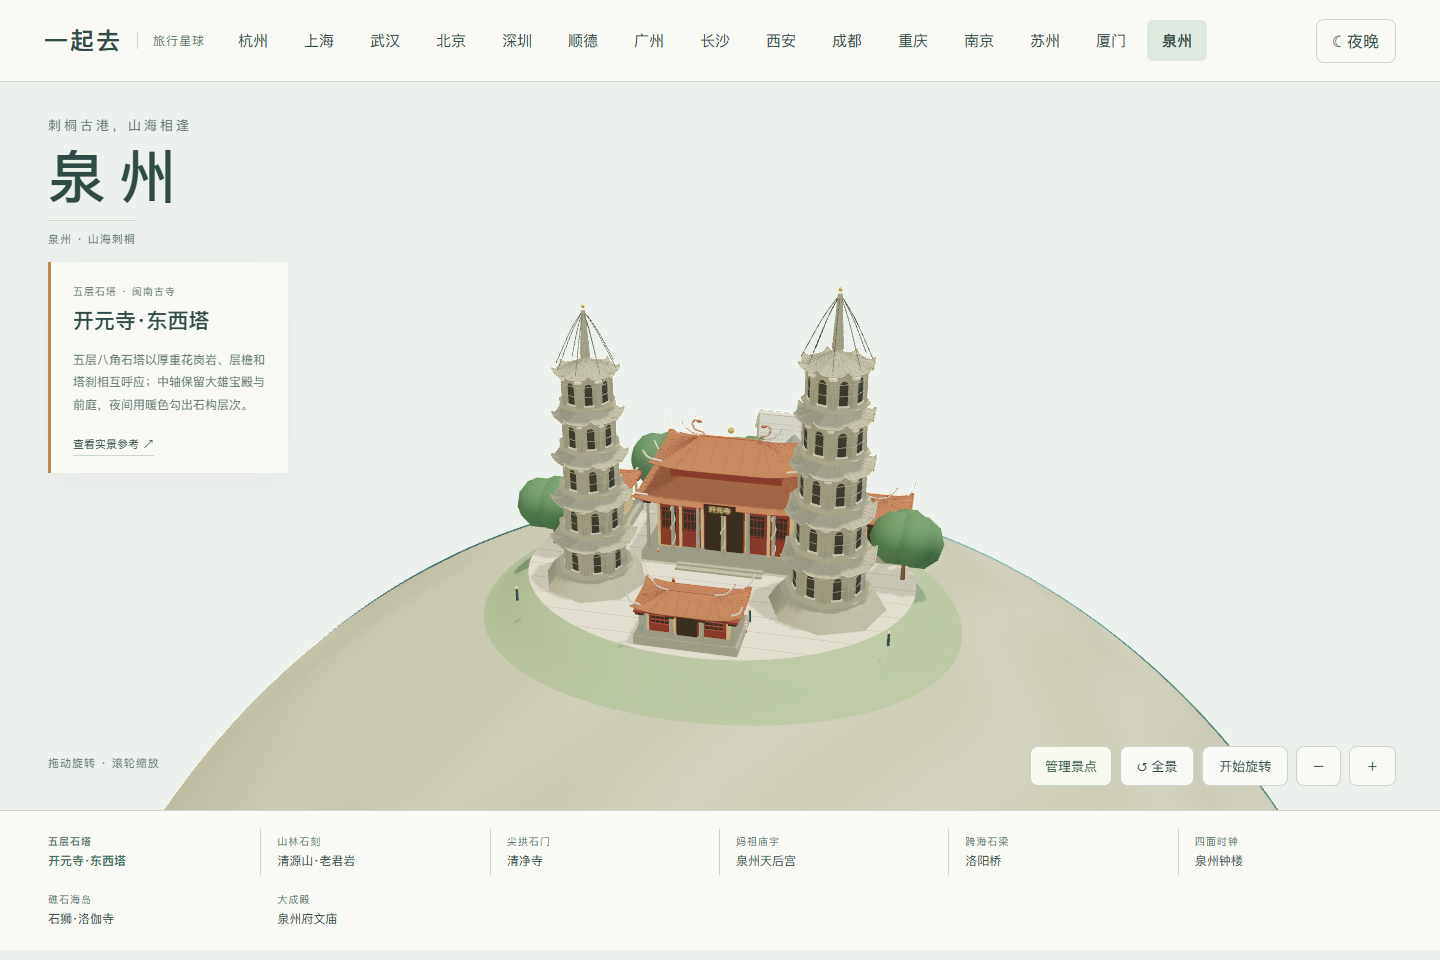
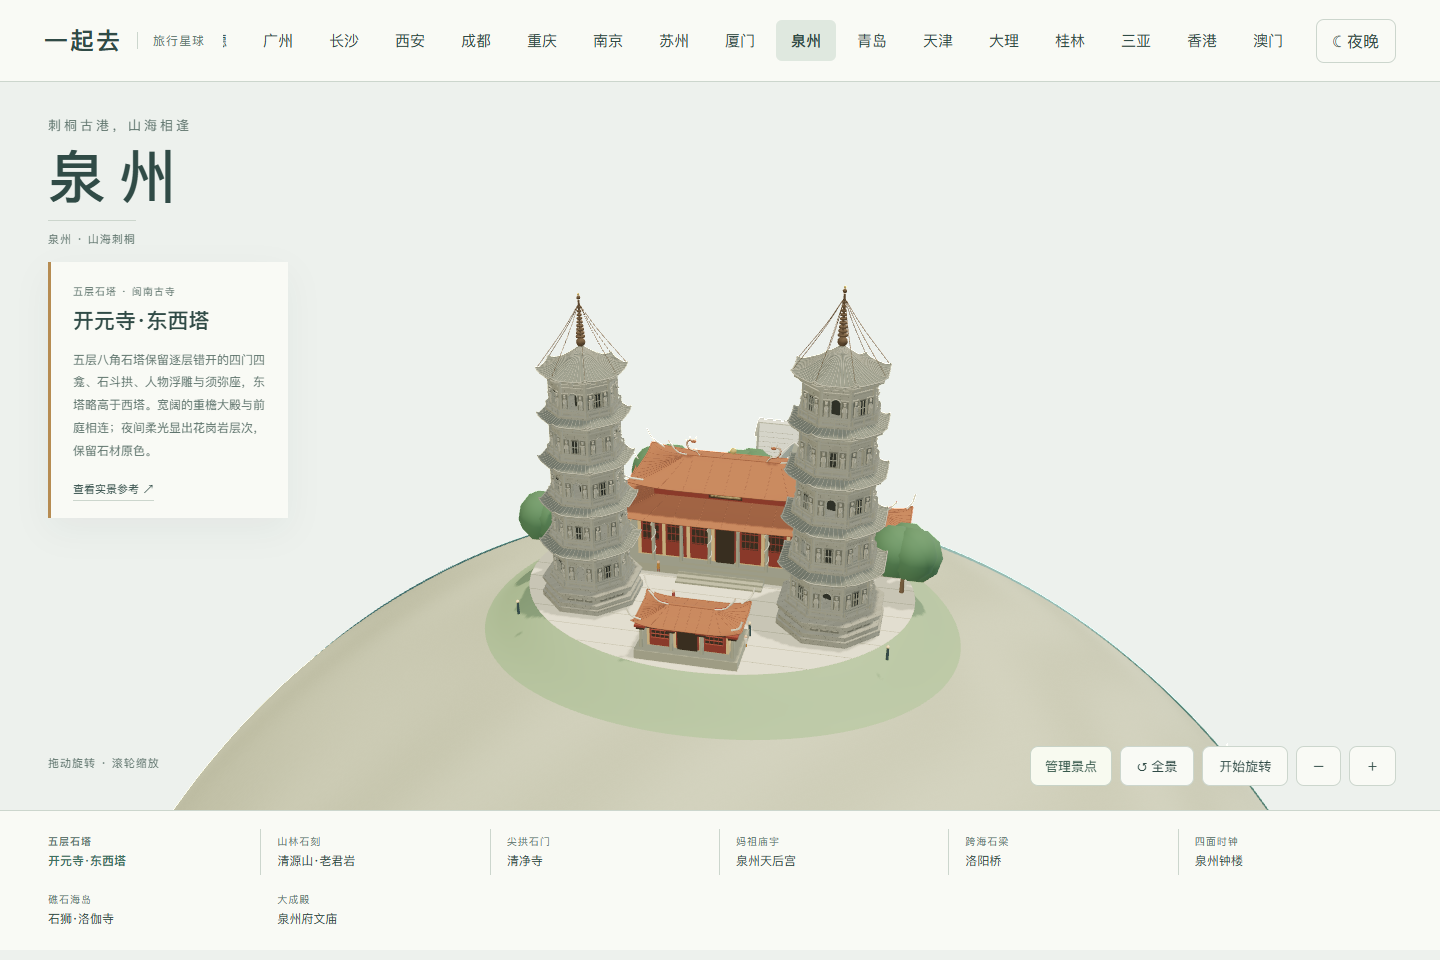
Refine Kaiyuan stone pagodas with alternating portals and carved detail

diff --git a/web/quanzhou-kaiyuan.js b/web/quanzhou-kaiyuan.js
@@ -1,0 +1,53 @@
+import * as THREE from 'three';
+import {palette,site,paving,steps,grove,sign,finish,hall,lit,TAU,skin,lantern,dragon,hip,sea,railing} from './quanzhou-kit.js';
+import {bridge} from './shunde-kit.js';
+function graniteMaterial(k){const m=k.mat('#929185',.98,.01);m.userData.night={color:new THREE.Color('#c7c4ad'),intensity:.018};m.userData.kaiyuanStone=true;m.onBeforeCompile=s=>{s.vertexShader='varying vec3 kaiyuanStone;\n'+s.vertexShader.replace('#include <begin_vertex>','#include <begin_vertex>\nkaiyuanStone=position;');s.fragmentShader='varying vec3 kaiyuanStone;\n'+s.fragmentShader.replace('#include <color_fragment>',`#include <color_fragment>
+ float row=floor(kaiyuanStone.y*135.0);vec2 grid=vec2((kaiyuanStone.x+kaiyuanStone.z)*85.0+mod(row,2.0)*.5,kaiyuanStone.y*135.0);
+ vec2 f=fract(grid);float joint=step(.026,f.x)*step(.035,f.y);
+ float tone=fract(sin(dot(floor(grid),vec2(12.989,78.233)))*43758.5453);diffuseColor.rgb*=mix(.78,.94+tone*.10,joint);`);};m.customProgramCacheKey=()=> 'kaiyuan-stone-block-v1';return m;}
+function relief(k,g,p,x,y,z,seed){
+ const panel=k.box(g,.017,.041,.002,p.recess,x,y+.021,z),robe=k.mesh(g,new THREE.LatheGeometry([new THREE.Vector2(.006,0),new THREE.Vector2(.005,.010),new THREE.Vector2(.0055,.020),new THREE.Vector2(.0035,.026)],10),p.carving,x,y+.003,z+.002);robe.scale.z=.52;
+ const head=k.ball(g,.0033,p.carving,x,y+.034,z+.003);head.scale.z=.65;k.cyl(g,.0034,.003,.003,p.carving,x,y+.038,z+.003,8);
+ const pose=seed%3;for(const side of [-1,1]){k.beam(g,[x+side*.004,y+.025,z+.003],[x+side*(pose===0?.001:.005),y+(pose===1?.030:.017),z+.007],.0018,p.carving,7);for(let j=0;j<3;j++)k.beam(g,[x+side*j*.0015,y+.017,z+.006],[x+side*(j+.2)*.0017,y+.003,z+.006],.0005,p.trim);}
+ for(const xx of [-.009,.009])k.box(g,.0012,.045,.003,p.trim,x+xx,y+.022,z+.001);for(const yy of [0,.044])k.box(g,.019,.0012,.003,p.trim,x,y+yy,z+.001);
+}
+function bracket(k,g,p,x,y,z){for(let i=0;i<3;i++){const reach=.005+i*.004;k.box(g,.008+i*.005,.004,.009+i*.006,p.trim,x,y+i*.004,z+reach);k.box(g,.005,.005,.010,p.stone,x,y-.003+i*.004,z+reach);}k.box(g,.024,.003,.023,p.stone,x,y+.013,z+.011);}
+function stonePagoda(k,g,p,x,z,scale=1,east=false){
+ const child=new THREE.Group();child.name=east?'kaiyuan-east':'kaiyuan-west';g.add(child);child.position.set(x,.034,z);child.scale.setScalar(scale);
+ const q={stone:graniteMaterial(k),trim:k.mat('#99988b',.96),roof:k.mat('#787c73',.98),recess:k.mat('#74746a',.99),carving:k.mat('#a4a193',.98),dark:k.mat('#3e413b',.99),metal:k.mat('#695743',.78,.2)};
+ for(const [r,y,h]of [[.146,.008,.016],[.140,.022,.012],[.125,.037,.018],[.141,.051,.010],[.145,.058,.006]]){const o=k.cyl(child,r,r,h,q.stone,0,y,0,8);o.rotation.y=Math.PI/8;}
+ // A moulded plinth and miniature relief panels support the five real storeys.
+ for(let i=0;i<8;i++){const a=i*TAU/8,f=new THREE.Group();f.rotation.y=a;f.position.set(Math.sin(a)*.118,.028,Math.cos(a)*.118);child.add(f);for(const xx of [-.026,0,.026]){k.box(f,.021,.014,.002,q.recess,xx,.011,0);const o=k.ball(f,.006,q.carving,xx,.012,.001);o.scale.set(1.2,.65,.3);}}
+ for(let level=0;level<5;level++){
+  const y=.064+level*.129,r=.105-level*.004,apothem=r*Math.cos(Math.PI/8),width=2*r*Math.sin(Math.PI/8),height=.103;
+  const core=k.cyl(child,.026,.026,.115,q.dark,0,y+.052,0,8);core.userData.hiddenCore=true;
+  for(let i=0;i<8;i++){const a=i*TAU/8,f=new THREE.Group();f.rotation.y=a;f.position.set(Math.sin(a)*apothem,y,Math.cos(a)*apothem);child.add(f);const opening=(i+level)%2===0;
+   if(opening){const shape=new THREE.Shape();shape.moveTo(-width/2,0);shape.lineTo(width/2,0);shape.lineTo(width/2,height);shape.lineTo(-width/2,height);shape.closePath();const hole=new THREE.Path();hole.moveTo(-.011,.009);hole.lineTo(-.011,.056);hole.absarc(0,.056,.011,Math.PI,0,true);hole.lineTo(.011,.009);hole.closePath();shape.holes.push(hole);k.mesh(f,new THREE.ExtrudeGeometry(shape,{depth:.008,bevelEnabled:false,curveSegments:16}),q.stone,0,0,-.008);
+    k.line(f,[[-.013,.009,.002],[-.013,.056,.002],[-.010,.065,.002],[0,.070,.002],[.010,.065,.002],[.013,.056,.002],[.013,.009,.002]],.0014,q.trim);
+   }else{k.box(f,width,height,.009,q.stone,0,height/2,-.0045);k.box(f,.022,.041,.002,q.recess,0,.045,.001);k.box(f,.017,.035,.003,q.dark,0,.045,.002);for(const xx of [-.008,0,.008])k.box(f,.001,.035,.005,q.trim,xx,.045,.004);k.box(f,.018,.001,.005,q.trim,0,.045,.004);}
+   for(const side of [-1,1]){relief(k,f,q,side*width*.32,.024,.003,i+level+side);k.box(f,.005,.094,.009,q.trim,side*width*.49,.047,.001);}
+   for(const yy of [.012,.020,.084,.092])k.box(f,width,.002,.005,q.trim,0,yy,.001);
+   const points=east||level<2?[-width/2,-width/6,width/6,width/2]:[-width/2,0,width/2];for(const xx of points)bracket(k,f,q,xx,.097,.001);
+   // Low stone rails sit outside the tower wall; portals remain distinguishable.
+   const railZ=.012;for(const yy of [.006,.020])k.box(f,width+.007,.0025,.004,q.trim,0,yy,railZ);for(const xx of [-width/2,0,width/2])k.box(f,.003,.023,.004,q.trim,xx,.012,railZ);
+  }
+  const shelf=k.cyl(child,r*1.17,r*1.17,.006,q.stone,0,y+.003,0,8);shelf.rotation.y=Math.PI/8;
+  const outer=r*1.38,high=level===4?.062:.030,inner=level===4?.004:r*.74;
+  const point=(u,v)=>{const a=u*TAU,sector=TAU/8,local=((a+sector/2)%sector)-sector/2,edge=outer*Math.cos(sector/2)/Math.cos(local),rad=inner+(edge-inner)*v;return [Math.sin(a)*rad,y+.112+high*(1-v)**1.45+.009*v**7*(Math.abs(local)/(sector/2))**5,Math.cos(a)*rad];};
+  skin(k,child,point,12,96,q.roof);k.line(child,Array.from({length:128},(_,i)=>point(i/128,1)),.0018,q.trim,true);
+  for(let i=0;i<64;i++)k.line(child,Array.from({length:10},(_,j)=>{const q=point(i/64,.04+.96*j/9);q[1]+=.001;return q;}),.00085,q.trim);
+ }
+ const top=.064+4*.129+.174;k.cyl(child,.0025,.003,.126,q.metal,0,top+.063,0,16);k.ball(child,.012,q.metal,0,top+.010,0);for(let j=0;j<9;j++)k.cyl(child,.012-j*.0009,.012-j*.0009,.004,q.metal,0,top+.026+j*.010,0,16);k.ball(child,.005,q.metal,0,top+.133,0);k.ball(child,.003,p.gold,0,top+.142,0);
+ for(let i=0;i<8;i++){const a=(i+.5)/8*TAU;k.line(child,[[0,top+.117,0],[Math.sin(a)*.042,top+.050,Math.cos(a)*.042],[Math.sin(a)*.118,top-.052,Math.cos(a)*.118]],.00065,q.metal);}
+ return child;
+}
+export function kaiyuan(k){
+ const g=new THREE.Group(),p=palette(k),h=site(k,g,.66,.55);paving(k,g,p,.53,.42);g.userData.stonePagodas={stories:[5,5],sides:8};
+ stonePagoda(k,g,p,-.32,.13,.92);stonePagoda(k,g,p,.32,.13,.985,true);p.tile=k.mat('#9e6549',.91);
+ hall(k,g,p,{w:.56,d:.27,h:.14,z:-.17,double:true,ornate:true});hall(k,g,p,{w:.23,d:.12,h:.07,z:.32});
+ for(const x of [-.40,.40])hall(k,g,p,{x,z:-.22,w:.16,d:.15,h:.095});
+ steps(k,g,p,0,.02,.24,5,.030,.08);sign(k,g,'界法蓮桑',.093,.022,0,.254,-.069,{background:'#47382b',color:'#dbc18b'});
+ grove(k,g,h,[[-.49,-.05,.16],[.49,-.06,.16],[-.25,-.39,.18],[.23,-.39,.17],[0,-.41,.17]]);
+ finish(k,g,{lamps:[[-.13,.023,.24],[.13,.023,.24],[-.48,.023,.27],[.48,.023,.27]],visitors:[[-.10,.023,.12],[.05,.023,.16],[.13,.023,.29],[-.18,.023,-.02]]});
+ for(const x of [-.32,.32]){const l=new THREE.SpotLight('#e1d6b9',0,1.1,.58,.8,2);l.position.set(x,.48,.48);l.target.position.set(x,.48,.13);l.userData.nightIntensity=.07;g.add(l,l.target);}return g;
+}

diff --git a/web/quanzhou-temples.js b/web/quanzhou-temples.js
@@ -1,35 +1,7 @@
 import * as THREE from 'three';
 import {palette,site,paving,steps,grove,sign,finish,hall,lit,TAU,skin,lantern,dragon,hip,sea,railing} from './quanzhou-kit.js';
 import {bridge} from './shunde-kit.js';
-function stonePagoda(k,g,p,x,z,scale=1){
- const child=new THREE.Group();g.add(child);child.position.set(x,.035,z);child.scale.setScalar(scale);
- for(let i=0;i<3;i++)k.cyl(child,.14-i*.008,.15-i*.008,.014,p.stone,0,.007+i*.014,0,8);
- const wall=lit(k,'#9e9983',.16),shade=k.mat('#4b4b40',.96),trim=lit(k,'#aaa58c',.35);
- for(let level=0;level<5;level++){
-  const y=.043+level*.125,r=.092-level*.006;k.cyl(child,r,r*.99,.098,wall,0,y+.049,0,8);
-  for(let face=0;face<8;face++){const a=(face+.5)/8*TAU,c=new THREE.Group();c.rotation.y=a;c.position.set(Math.sin(a)*r*.926,y,Math.cos(a)*r*.926);child.add(c);
-   k.box(c,.020,.050,.003,shade,0,.044,0);k.mesh(c,new THREE.CircleGeometry(.010,16,0,Math.PI),shade,0,.069,.002);k.box(c,.028,.004,.006,p.pale,0,.017,.001);
-   for(const side of [-1,1]){k.cyl(c,.003,.003,.078,p.stone,side*.030,.047,0,8);k.box(c,.012,.006,.009,p.pale,side*.030,.086,.002);}
-   for(let j=0;j<3;j++)k.box(c,.065,.001,.001,p.stone,0,.015+j*.028,.003);
-  }
-  k.cyl(child,r*1.20,r*1.20,.007,trim,0,y+.008,0,8);
-  const eave=r*1.34,high=.038;
-  const point=(u,v)=>{const a=u*TAU,sector=TAU/8,local=((a+sector/2)%sector)-sector/2,rr=eave*Math.cos(sector/2)/Math.cos(local),t=.001+.999*v;return [Math.sin(a)*rr*t,y+.097+high*(1-t)**1.4+.013*t**8*(Math.abs(local)/(sector/2))**5,Math.cos(a)*rr*t];};
-  skin(k,child,point,10,96,p.stone);k.line(child,Array.from({length:96},(_,i)=>point(i/96,1)),.002,trim,true);
-  for(let i=0;i<32;i++)k.line(child,Array.from({length:8},(_,j)=>{const q=point(i/32,.08+.92*j/7);q[1]+=.001;return q;}),.0009,p.stone);
- }
- const top=.043+4*.125+.135;k.cyl(child,.006,.014,.13,p.stone,0,top+.065,0,12);for(let j=0;j<8;j++)k.cyl(child,.014-j*.0011,.014-j*.0011,.004,p.stone,0,top+.012+j*.014,0,16);k.ball(child,.005,p.gold,0,top+.140,0);
- for(let i=0;i<8;i++){const a=i/8*TAU;k.line(child,[[0,top+.13,0],[Math.sin(a)*.035,top+.075,Math.cos(a)*.035],[Math.sin(a)*.084,top-.025,Math.cos(a)*.084]],.0007,shade);}
-}
-export function kaiyuan(k){
- const g=new THREE.Group(),p=palette(k),h=site(k,g,.66,.55);paving(k,g,p,.53,.42);g.userData.stonePagodas={stories:[5,5],sides:8};
- stonePagoda(k,g,p,-.31,.13,.92);stonePagoda(k,g,p,.31,.13,1.02);p.tile=k.mat('#9e6549',.91);
- hall(k,g,p,{w:.42,d:.23,h:.16,z:-.14,double:true,ornate:true});hall(k,g,p,{w:.23,d:.12,h:.07,z:.32});
- for(const x of [-.40,.40])hall(k,g,p,{x,z:-.22,w:.16,d:.15,h:.095});
- steps(k,g,p,0,.02,.24,5,.030,.08);sign(k,g,'开元寺',.088,.031,0,.205,.005,{background:'#47382b',color:'#dbc18b'});
- grove(k,g,h,[[-.49,-.05,.16],[.49,-.06,.16],[-.25,-.39,.18],[.23,-.39,.17],[0,-.41,.17]]);
- return finish(k,g,{lamps:[[-.13,.023,.24],[.13,.023,.24],[-.48,.023,.27],[.48,.023,.27]],visitors:[[-.10,.023,.12],[.05,.023,.16],[.13,.023,.29],[-.18,.023,-.02]]});
-}
+export {kaiyuan} from './quanzhou-kaiyuan.js';
 export function tianhou(k){
  const g=new THREE.Group(),p=palette(k),h=site(k,g,.62,.55);paving(k,g,p,.49,.43);p.tile=k.mat('#79755c',.91);
  hall(k,g,p,{z:.23,w:.55,d:.18,h:.17,ornate:true});hall(k,g,p,{z:-.18,w:.45,d:.25,h:.18,double:true,ornate:true});

diff --git a/web/quanzhou-landmarks.js b/web/quanzhou-landmarks.js
@@ -2,7 +2,7 @@ import {kaiyuan,tianhou,wenmiao,luojia} from './quanzhou-temples.js';
 import {qingjing,clock,luoyang} from './quanzhou-civic.js';
 import {laojun} from './quanzhou-sculpture.js';
 export const LANDMARKS=[
- {"id": "kaiyuan", "name": "开元寺·东西塔", "area": "五层石塔 · 闽南古寺", "x": -1.08, "z": 0.94, "height": 0.85, "distance": 3.0, "view": [0.4, 0.83, 1.8], "description": "五层八角石塔以厚重花岗岩、层檐和塔刹相互呼应；中轴保留大雄宝殿与前庭，夜间用暖色勾出石构层次。", "source": "https://k.sina.com.cn/article_1249458720_4a793a200200176l1.html", "grounded": true},
+ {"id": "kaiyuan", "name": "开元寺·东西塔", "area": "五层石塔 · 闽南古寺", "x": -1.08, "z": 0.94, "height": 0.94, "distance": 3.0, "view": [0.4, 0.83, 1.8], "description": "五层八角石塔保留逐层错开的四门四龛、石斗拱、人物浮雕与须弥座，东塔略高于西塔。宽阔的重檐大殿与前庭相连；夜间柔光显出花岗岩层次，保留石材原色。", "source": "https://www.quanzhou.gov.cn/zfb/xxgk/ztxxgk/ggwhty/whssml/202305/t20230516_2880608.htm", "grounded": true},
  {"id": "laojun", "name": "清源山·老君岩", "area": "山林石刻 · 席地坐像", "x": 1.08, "z": 0.94, "height": 0.65, "distance": 2.8, "view": [0.2, 0.62, 1.8], "description": "按实拍保留长髯、垂耳、依膝与凭几的席地坐姿，石像后方以山石和林冠围合。它是自然山麓石刻，不凭空补一座大殿遮住。", "source": "https://www.quanzhou.gov.cn/lyb/lswh/zdww/201609/t20160913_372298.htm", "grounded": true},
  {"id": "qingjing", "name": "清净寺", "area": "尖拱石门 · 海丝遗存", "x": -1.08, "z": -0.94, "height": 0.54, "distance": 2.75, "view": [0.35, 0.74, 1.8], "description": "灰白石砌门楼、层层尖拱与开敞的旧礼拜殿遗存，和后方较小的中式明善堂区分。门洞保持真实贯通，石墙保留砌缝。", "source": "https://www.media.sdu.edu.cn/info/1002/33093.htm", "grounded": true},
  {"id": "tianhou", "name": "泉州天后宫", "area": "妈祖庙宇 · 剪瓷雕脊", "x": 1.08, "z": -0.94, "height": 0.55, "distance": 2.9, "view": [0.3, 0.92, 1.8], "description": "山门、前庭、两侧院廊与后方正殿沿轴线排列。入口龙柱、红灯笼、灰绿瓦和屋脊双龙形成闽南识别点，暖光从柱廊与门内透出。", "source": "https://you.ctrip.com/sight/quanzhou243/8877.html", "grounded": true},

diff --git a/README.md b/README.md
@@ -1,6 +1,6 @@
 # 一起去 · Travel Planet
 
-用可旋转的 3D 城市星球发现景点，再和朋友一起决定怎么旅行。当前版本 **0.55.7**，支持桌面和手机网页。
+用可旋转的 3D 城市星球发现景点，再和朋友一起决定怎么旅行。当前版本 **0.55.8**，支持桌面和手机网页。
 
 **[上海旅行 · 在线体验](https://43.139.249.151/travel/shanghai-trip.html)** · **[杭州旅行](https://43.139.249.151/travel/)** · **[武汉旅行](https://43.139.249.151/travel/wuhan-trip.html)** · **[武汉纯地图](https://43.139.249.151/travel/wuhan.html)** · **[上海纯地图](https://43.139.249.151/travel/shanghai.html)** · **[北京地图](https://43.139.249.151/travel/beijing.html)** · **[深圳地图](https://43.139.249.151/travel/shenzhen.html)** · **[顺德地图](https://43.139.249.151/travel/shunde.html)** · **[广州地图](https://43.139.249.151/travel/guangzhou.html)** · **[长沙地图](https://43.139.249.151/travel/changsha.html)** · **[西安地图](https://43.139.249.151/travel/xian.html)** · **[成都地图](https://43.139.249.151/travel/chengdu.html)** · **[重庆地图](https://43.139.249.151/travel/chongqing.html)** · **[南京地图](https://43.139.249.151/travel/nanjing.html)** · **[苏州地图](https://43.139.249.151/travel/suzhou.html)** · **[厦门地图](https://43.139.249.151/travel/xiamen.html)** · **[泉州地图](https://43.139.249.151/travel/quanzhou.html)** · **[青岛地图](https://43.139.249.151/travel/qingdao.html)** · **[天津地图](https://43.139.249.151/travel/tianjin.html)** · **[大理地图](https://43.139.249.151/travel/dali.html)** · **[桂林地图](https://43.139.249.151/travel/guilin.html)** · **[三亚地图](https://43.139.249.151/travel/sanya.html)** · **[香港地图](https://43.139.249.151/travel/hongkong.html)** · **[澳门地图](https://43.139.249.151/travel/macau.html)**
 

diff --git a/docs/QUANZHOU_REFERENCES.md b/docs/QUANZHOU_REFERENCES.md
@@ -14,3 +14,16 @@
 | 泉州府文庙 | [大成殿实拍](https://touch.travel.qunar.com/comment/10163546063)、[闽南网泮池照片](https://www.mnw.cn/quanzhou/licheng/3057699.html) | 重檐大成殿、石柱、红木门窗、院廊、泮池与小桥。官方原图连接超时后改看媒体和游客照片。 |
 
 地图提供两半球浏览、日夜、自由旋转、整组增删和手机布局。夜间采用克制暖光，灯笼缓慢变化，不冒充真实景区夜游或灯光节目的承诺。泉州尚未接入多人旅行；原杭州、上海、武汉目录和行程保持独立，不虚构票价与开放时间。
+
+
+## 0.55.8 开元寺东西塔石构精修
+
+对照[泉州市海上丝绸之路申遗中心资料与东西塔、大殿近照](https://www.quanzhou.gov.cn/zfb/xxgk/ztxxgk/ggwhty/whssml/202305/t20230516_2880608.htm)，重做五层八角石塔立面。每层四门四龛，逐层转过 45 度；门洞真实贯通，门边仍保留厚实石墙。补入石斗拱、简化人物浮雕、须弥座、石栏、屋面细肋和九层塔刹环叠，东塔略高于西塔。
+
+大殿扩展横向体量，保持闽南重檐红瓦、入口台阶和前庭。夜间不把花岗岩染成金色，只用低亮暖白光显示石雕与层檐。照片仅用于内部观察，没有作为贴图分发。浮雕采用简化姿态，不声称逐尊复原文物；庭院与距离仍为微缩布局，灯光是展示设计，不代表真实夜游活动。
+
+![开元寺日景](images/quanzhou-kaiyuan.png)
+
+![石塔侧面](images/quanzhou-kaiyuan-oblique.png)
+
+![开元寺夜间展示](images/quanzhou-kaiyuan-night.png)

diff --git a/docs/TESTING.md b/docs/TESTING.md
@@ -252,3 +252,10 @@ python tools/travel-flow-check.py
 327 项完整测试、332 项 JavaScript 语法与 4 项厦门专项通过。新增射线检查确认正面和侧面的柱廊真实退进、柱身保留、八角鼓座拱窗有实际开口。原八组两半球布局、球面净空、动态及整组资源释放检查保留。
 
 2026-11-04 07:57—08:01 对照修缮后照片完成两轮隔离草稿和正式模型日夜、正侧背、320 实际核看，修正内墙颜色、顶部露台和照明热点。完整浏览器通过八组日夜、模块保存恢复、触控键盘、320—1440 与 WebGL 恢复，异常和业务写入为 0。手机为浏览器模拟，不代表物理设备性能测评。
+
+
+## 0.55.8 开元寺东西塔精修
+
+328 项完整测试、333 项 JavaScript 语法检查通过。新增射线检查覆盖两塔五层八面，确认四个真实门洞与四个实心龛位逐层交错，洞旁石墙保留。原八组两半球球面净空、夜景颜色、减少动态及整组资源释放检查保持通过。
+
+2026-11-04 08:07—08:14 完成两轮隔离草稿与正式模型日夜、正侧背和 320 截图核看；修正屋面纹理、塔刹与匾额位置。08:13—08:15 完整浏览器验收通过八组日夜、整组保存恢复、触控键盘、320—1440 显示与真实 WebGL 上下文恢复，异常及业务写入为 0。手机是浏览器模拟，未声称物理设备性能验证。
